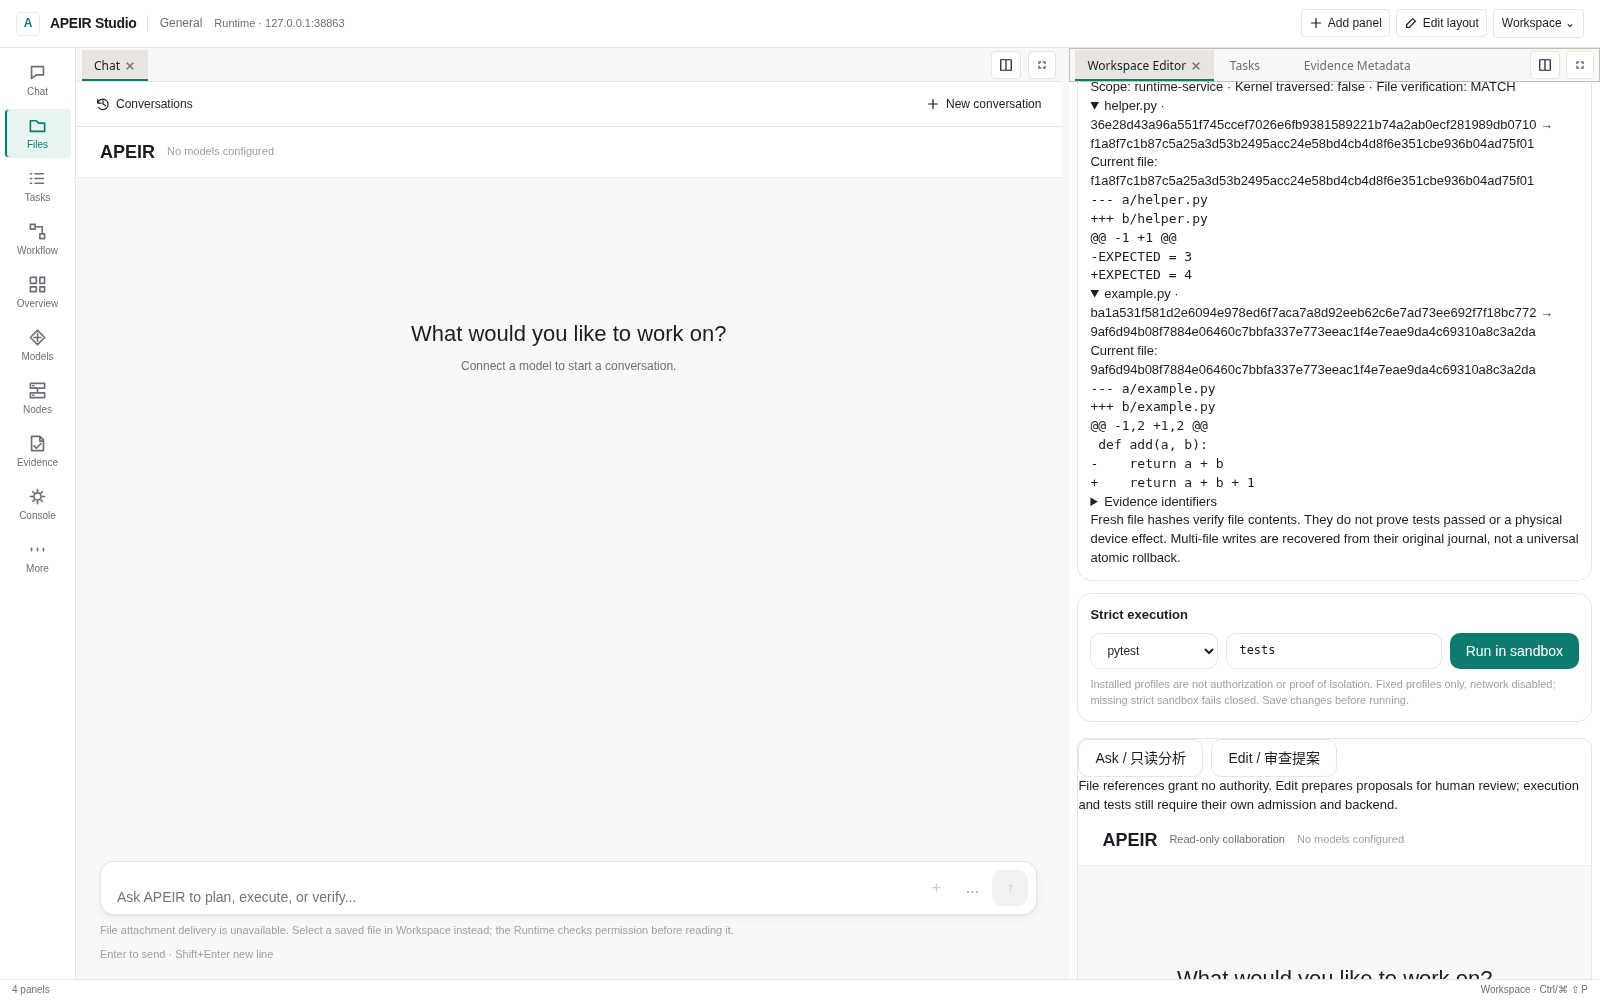
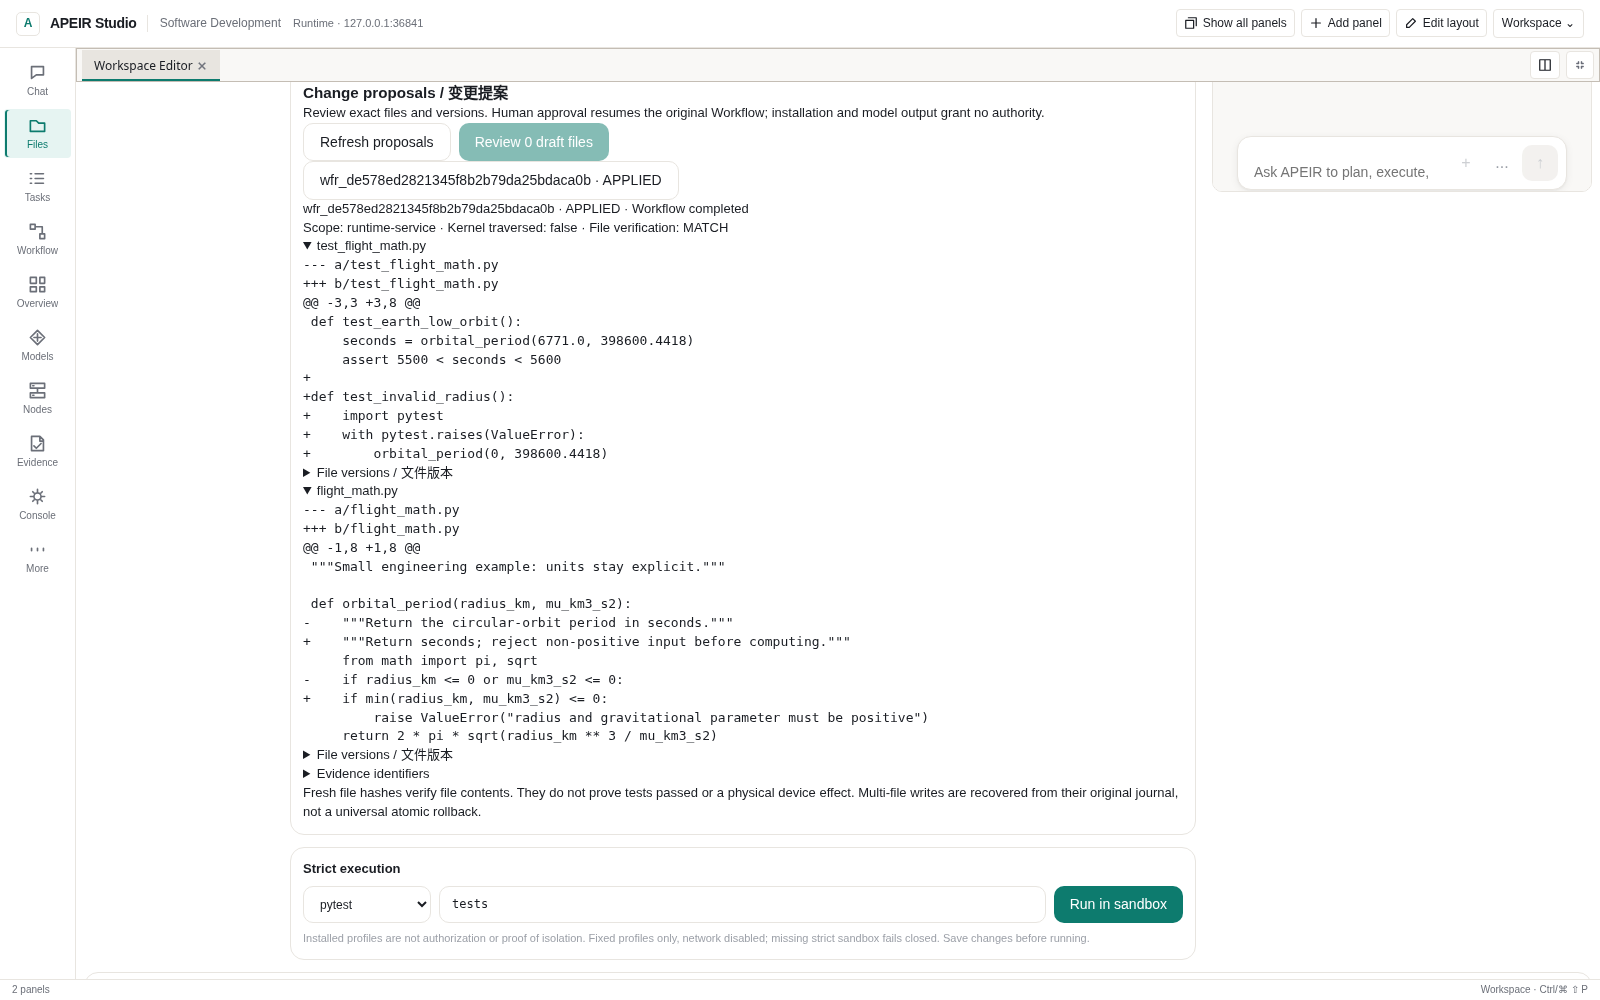
docs(delivery): clarify Windows downloads and refresh real Studio captures

diff --git a/docs/operations/getting-started/INSTALL_WINDOWS.md b/docs/operations/getting-started/INSTALL_WINDOWS.md
@@ -1,17 +1,117 @@
-# Windows source installation
+# APEIR on Windows
 
-For the unsigned x64 test package, use [Windows Development Build](QUICK_START.md#native-installation).
-It is separate from the source path below; Windows10 installed lifecycle remains
-pending and no stable installer is offered.
+The current **0.1.0-rc1 development bundle** contains both an installer and a
+Portable ZIP. Pick one; you do not need to install Python or Kernel separately.
 
-Follow the [source Quick Start](QUICK_START.md), including PowerShell virtual
-environment activation. Use Python 3.10–3.12 and a writable checkout;
-Administrator privileges are unnecessary for a source install.
+[**Download Setup + Portable**](https://github.com/untrod/apeir/actions/runs/41309010299/artifacts/13085683076)
+· [Version, hashes and source](QUICK_START.md#download-metadata)
 
-If `apeir` is not found, activate the same environment used by `python -m pip`.
-Native Tauri packaging requires Rust, MSVC/Windows SDK and locked native
-components. Windows ARM64 has a separate
-[qualification guide](../deployment/WINDOWS_10_ARM64_LOCAL.md); source installation
-does not qualify native binaries or isolation backends.
+This is an **unsigned development build**, not a stable Release. GitHub sign-in
+is required; the artifact expires on **2026-11-15**. Build and real sidecar checks
+passed on Windows Server 2025. Windows 10 installation, GUI, upgrade, uninstall
+and Defender acceptance are **PENDING**. There is no public Release asset yet.
 
-See [installation notes](../INSTALLATION.md) and [troubleshooting](TROUBLESHOOTING.md).
+中文速读：下载上面的工件，解压后任选安装版或 Portable。先校验，再打开；
+暂时没有 Windows 10 实机验收，不要把工作资料当测试沙盒。模型可以稍后配置。
+
+## Before opening a package
+
+- Use **x64 Windows**. Windows 10 x64 is the intended target; this candidate has
+  not completed acceptance on it. Windows ARM64 is a separate qualification.
+- The desktop needs **Microsoft Edge WebView2**. Setup uses its download
+  bootstrapper when necessary, so first installation can require network access.
+- Keep the included sidecars and app-local runtime DLLs together. Their presence
+  was checked in the build; clean Windows 10 dependency acceptance is still pending.
+- Start with a **new, empty workspace**. Back up existing workspace and application
+  state before testing an upgrade. Use an isolated copy for migration tests.
+
+Extract the outer GitHub artifact ZIP. Compare the Setup or Portable file's
+SHA-256 with [Download metadata](QUICK_START.md#download-metadata), not with the
+outer ZIP hash. In PowerShell, `Get-FileHash -Algorithm SHA256 <file>` prints it.
+A mismatch means **stop**. Do not run a similarly named file from another source.
+
+The bundle also contains `SHA256SUMS.txt`, manifests and native validation
+reports. Its binary source is `5bdbadf2a072c222b016b1ccbe8b89ad5e0c25ff`;
+a newer README or screenshot does not change that binary.
+
+## Setup
+
+1. After verification, open `APEIR_0.1.0-rc1_x64-setup.exe`.
+2. Setup is configured for the **current user**. Do not add administrator
+   elevation to work around a failure. Allow the supported WebView2 prerequisite
+   installation if it is needed and acceptable on your machine.
+3. Open APEIR and select a new workspace. Check the displayed Runtime and Kernel
+   status. A missing model is **UNCONFIGURED**, not a reason to lose read-only access.
+4. Open **Files**, **Workflow** or the supported model-free Demo. Add Provider
+   credentials later through the supported secure configuration flow.
+
+An unsigned application can receive Windows security warnings. If Windows blocks
+it, stop and retain the exact warning for review. Do not disable Defender,
+SmartScreen or other protection to make the test pass.
+
+## Portable
+
+1. Verify `APEIR-Portable-0.1.0-rc1-windows-x64.zip`.
+2. Extract the **whole ZIP** into a writable directory.
+3. Open `APEIR-Portable/APEIR.exe` from the extracted package. Do not move only
+   the EXE: Kernel, Worker and Runtime sidecars are part of the application.
+4. Follow the same workspace and service checks as Setup.
+
+“Portable” describes the application package. It does **not** mean all user data
+stays beside the EXE. The launcher uses `%LOCALAPPDATA%\Nous` for application
+configuration, logs and local service state, plus your selected workspace for
+project state. `Nous` is a retained compatibility directory name.
+
+## Download with GitHub CLI
+
+For developers who already use authenticated `gh`, this is the exact current
+artifact. It downloads files; it does **not** start installation:
+
+```powershell
+gh run download 41309010299 --repo untrod/apeir --name windows-x64-native-development-build --dir .\apeir-0.1.0-rc1
+if ($LASTEXITCODE -ne 0) { throw 'Download failed; no installer was run.' }
+$apeirFiles = @{
[2 lines of base64/hex data omitted]
+}
+foreach ($apeirName in $apeirFiles.Keys) {
+    $apeirPath = Join-Path '.\apeir-0.1.0-rc1' $apeirName
+    if (!(Test-Path -LiteralPath $apeirPath)) { throw "Missing package: $apeirName" }
+    $apeirHash = (Get-FileHash -LiteralPath $apeirPath -Algorithm SHA256).Hash
+    if ($apeirHash -ne $apeirFiles[$apeirName]) { throw "SHA-256 mismatch: $apeirName" }
+}
+Write-Host 'Package hashes match. No installer was run.'
+```
+
+Use a new destination directory. These fixed hashes refer only to the files
+above. The archive contents and hashes were independently checked on Linux;
+this PowerShell recipe still needs target-machine execution. Public, no-login
+Release downloads will be documented only after their actual publication.
+
+## Exit, recovery and troubleshooting
+
+Close the application normally, reopen it and inspect the original project and
+Work records. A lost response is a reason to query the original operation, not
+to submit its effects again. Closing a panel does not cancel background Work.
+
+Launcher logs normally live under `%LOCALAPPDATA%\Nous\logs`:
+`runtime-api.log` and `nousd.log`. If startup fails, record the application
+version, Windows version, warning text and relevant log excerpt. Remove tokens,
+credentials and personal paths before sharing diagnostics. Do not upload the
+whole state directory.
+
+Upgrade, uninstall, reinstall, retained-data behavior and child-process cleanup
+still need Windows 10 acceptance. Back up state first; do not assume uninstall
+removes your workspace, or manually delete it as a troubleshooting shortcut.
+The [launcher reference](../deployment/WINDOWS_10_X64_LAUNCHER.md) and
+[Release Runbook](../../acceptance/RELEASE_RUNBOOK.md) retain the engineering
+checks and the pending installation lifecycle.
+
+## Windows source installation
+
+Follow [Source Preview](QUICK_START.md#source-preview) or
+[Developer Setup](QUICK_START.md#developer-setup). Activate the same virtual
+environment used by `python -m pip`; no administrator privilege is needed.
+Native development additionally requires Rust, MSVC/Windows SDK and locked
+components. [Windows ARM64](../deployment/WINDOWS_10_ARM64_LOCAL.md) has a separate
+support scope. See [troubleshooting](TROUBLESHOOTING.md) for source startup issues.

diff --git a/docs/acceptance/ENGINEERING_REVIEW.md b/docs/acceptance/ENGINEERING_REVIEW.md
@@ -6049,3 +6049,48 @@ successful Windows x64 artifact and inspect its own report/hashes. Its full
 Native result is independently required before that package is admitted; source
 CI and the earlier AACB build cannot supply it. Later documentation-only changes
 preserve this exact binary/source identity rather than relabeling an older EXE.
+
+### Native download and first-use preparation — 2026-11-02
+
+Baseline main `0eeec61238721481d5603defd3ca75a0bc70ddbe`; Studio changes
+`1b09be440019981c1d6800b77f191cd3d3d1e7f8`. Kernel and the approved component
+lock are unchanged. Empty Chat opens the existing Models, Files and Workflow
+panels; navigation submits no Work and retains the unsent draft. Project path,
+capability details, recorded model input and file hashes remain available on
+expansion. Layout schema, drafts, approval and execution APIs are unchanged.
+
+Local verification: Desktop **501 passed**; actual CLI/HTTP/Chromium integration
+**17 passed**, including Controller isolation, untrusted layouts, original Run
+recovery and extension revocation. TypeScript, ESLint and production build passed.
+Repository regressions: **305 passed, 7 skipped**; optional native/environment
+conditions remain explicit. Existing security scan: zero HIGH findings and six
+existing MEDIUM findings; this is not a zero-finding security certification.
+
+Four raw 1600×1000 images in `docs/media` were replaced from that production
+Studio build and a real model-disabled Runtime in Linux sandboxed Chromium.
+The public-sized `orbit-demo` project has two actual Python files. Independent
+local CLI approval applied Proposal `wfr_de578ed2821345f8b2b79da25bdaca0b`, bound
+to Work `work_965b9631e40f3c356575e77cea4148a3`; fresh readback was MATCH and
+Runtime restart recovered the original Proposal. Pure three-step TRANSFORM Run
+`wfr_5b6add51332d4384a63e6e10b49774c2` completed with upstream value bindings.
+No external model calls or project test commands ran. File MATCH is not test
+PASS. Screenshots show source mode, not Windows installation or physical effects.
+
+The existing native candidate remains binary source
+`5bdbadf2a072c222b016b1ccbe8b89ad5e0c25ff`, run41309010299/artifact13085683076.
+Fresh artifact retrieval through the connected GitHub interface matched outer
[1 lines of base64/hex data omitted]
+The existing independent package inspector verified all 22 checksum entries,
+13 manifest records, nested Portable files, approved PE components and actual
+NSIS payload. The upstream Tauri NSIS header stamp comparison does not change
+any retained binary or raw digest. Setup was not executed. A direct `gh run
+download` attempt reached the artifact redirect but this environment denied its
+blob URL with HTTP403; the documented PowerShell recipe is not a Windows10 test.
+
+The maintainer has no Windows10 test host currently available and requested
+completion of independent delivery preparation. Installation, upgrade, uninstall,
+GUI/Defender and data-retention acceptance remain PENDING. Public Release assets,
+signing and publication authorization remain BLOCKED; no tag or Release was
+created. Download instructions point to the actual authenticated, expiring
+Actions bundle, not invented public Setup/Portable URLs. The Windows candidate
+does not acquire these newer source-interface changes by documentation alone.

diff --git a/docs/operations/guides/USER_GUIDE.md b/docs/operations/guides/USER_GUIDE.md
@@ -32,7 +32,9 @@ npm ci
 npm run dev
 ```
 
-Current Studio opens with Chat and Files in a new General layout. Existing saved
+Current Studio opens with Chat and Files in a new General layout. Empty Chat
+offers **Connect a model**, **Open project files** and **Open Workflow**; these
+open existing panels without submitting a task. Existing saved
 layouts are kept. If you see only a Dashboard, choose **Chat** or **Files** on
 the left rail; **More / Add panel** opens the full searchable library.
 **Workspace → Operations Console → Controller connection** configures the Runtime
@@ -164,19 +166,24 @@ loaded Skill does not establish that a model used it in a particular request.
 
 ![Dark Dashboard with actual Runtime data; absent resources remain UNKNOWN](../../media/studio-source-overview.png)
 
-These screenshots are real [source-browser evidence](https://github.com/untrod/apeir/actions/runs/41308994710)
-at `5bdbadf`, using the production frontend and model-disabled Runtime. They do
-not qualify installed Windows, live-model inference or physical devices.
+Project, Overview and Proposal images were captured on 2026-11-02 from the
+[reviewed Studio source](https://github.com/untrod/apeir/commit/1b09be440019981c1d6800b77f191cd3d3d1e7f8):
+a production build in Linux Chromium connected to a real model-disabled Runtime.
+They show actual files and records, not installed Windows or live-model inference.
+The downloadable Windows candidate retains its separate binary source identity.
 Browser Studio initializes the original EntityStore after authenticated health;
 Work and original task summaries share the existing adapter. Missing progress or
 unknown task states do not become successful tasks or enable controls.
 
 ## Reviewing workspace changes
 
-Open a real project in **Files / Operations → Workspace**. Read the relevant
+Open a real project in **Files / Operations → Workspace**. The Project header
+shows its directory name; expand **Project details** for the full path and
+capability availability. **Inspect model input** opens recorded input details. Read the relevant
 files, edit drafts and choose **Review draft files**. The existing Proposal
 Workflow records paths, original/replacement SHA-256, exact Diff and CAS refs.
-Review them, obtain independent **Approve Once**, then resume the original
+Expand **File versions** to inspect original, replacement and current hashes.
+Review the Diff, obtain independent **Approve Once**, then resume the original
 request. **Deny** changes no files. File versions and current permissions are
 checked again before writing; changed files are not silently overwritten.
 

diff --git a/README.zh-CN.md b/README.zh-CN.md
@@ -14,15 +14,19 @@
 
 开放、以本地工作为起点的工程工作台：组织文件、工作流和连接资源，修改先审查，操作有审批，结果有记录。
 
-[**Windows 预览包**](https://github.com/untrod/apeir/actions/runs/41309010299/artifacts/13085683076) ·
+[**⬇ Windows 安装版 + Portable**](https://github.com/untrod/apeir/actions/runs/41309010299/artifacts/13085683076) ·
 [**Source Preview**](docs/operations/getting-started/QUICK_START.md#source-preview) ·
 [**快速开始**](docs/operations/getting-started/QUICK_START.md) ·
 [**文档**](docs/README.md) · [English](README.md)
 
+**Windows：**[安装版](docs/operations/getting-started/INSTALL_WINDOWS.md#setup) · [Portable 用法](docs/operations/getting-started/INSTALL_WINDOWS.md#portable) · [SHA-256 校验](docs/operations/getting-started/QUICK_START.md#download-metadata)。
+当前为未签名开发包，需要登录 GitHub 下载，Windows 10 安装仍待实机验收。
+正式版还没出炉，生产环境先别急着端上桌。
+
 ![APEIR Studio 中的工程文件、编辑器与 Chat](docs/media/studio-workspace-source.png)
 
-*当前 Studio 源码预览界面的真实浏览器截图，连接的是已禁用模型的 Runtime；
-不是 Windows 安装截图，也没有展示真实模型调用。*
+*Studio 源码界面的真实截图（Linux 浏览器，模型已禁用）。
+下载的 Windows 包有独立构建版本；此图不代表 Windows 安装或真实模型验收。*
 
 APEIR Studio 可以组合工程、对话、Workflow、任务和证据面板，保存自己的工作布局。
 APEIR Runtime 负责已获准的操作与原始记录。模型和扩展提供能力，不负责批准自己的请求。

diff --git a/README.md b/README.md
@@ -16,15 +16,20 @@
 An open, local-first workspace for project files, workflows and connected
 resources—with approvals and execution records you can inspect.
 
-[**Windows Preview**](https://github.com/untrod/apeir/actions/runs/41309010299/artifacts/13085683076) ·
+[**⬇ Windows — Setup + Portable**](https://github.com/untrod/apeir/actions/runs/41309010299/artifacts/13085683076) ·
 [**Source Preview**](docs/operations/getting-started/QUICK_START.md#source-preview) ·
 [**Quick Start**](docs/operations/getting-started/QUICK_START.md) ·
 [**Documentation**](docs/README.md) · [简体中文](README.zh-CN.md)
 
+**Windows:** [Install Setup](docs/operations/getting-started/INSTALL_WINDOWS.md#setup) · [Use Portable](docs/operations/getting-started/INSTALL_WINDOWS.md#portable) · [Verify SHA-256](docs/operations/getting-started/QUICK_START.md#download-metadata).
+Unsigned development bundle; GitHub sign-in required. Windows 10 installation
+acceptance is pending. No stable Release yet—keep your production hat on the hook.
+
 ![APEIR Studio showing project files, an editor and Chat](docs/media/studio-workspace-source.png)
 
-*Actual Studio Source Preview connected to a model-disabled Runtime. This is a
-browser capture, not a Windows installation or live-model demonstration.*
+*Actual Studio source build in Linux Chromium, with models disabled. The
+Windows download has its own build identity; this image is not native-install
+or live-model acceptance.*
 
 APEIR Studio puts project, conversation, Workflow, task and evidence panels in
 one configurable workspace. APEIR Runtime handles admitted operations and their

diff --git a/docs/operations/guides/WORKFLOW_GUIDE.md b/docs/operations/guides/WORKFLOW_GUIDE.md
@@ -109,3 +109,10 @@ apeir --no-intelligence workflow validate workflow.json --json
 
 ![Workflow Builder with a registered pure workflow and its original Run](../../media/studio-workflow-source.png)
 
+
+The image above shows a real three-step TRANSFORM workflow at
+[Studio source `1b09be4`](https://github.com/untrod/apeir/commit/1b09be440019981c1d6800b77f191cd3d3d1e7f8),
+captured in Linux Chromium on 2026-11-02. The steps transfer recorded review
+notes; they do not perform model analysis or run project tests. Registration and
+execution each received an independent local approval. This is source-browser
+acceptance, not Windows installation acceptance.

diff --git a/docs/operations/getting-started/QUICK_START.md b/docs/operations/getting-started/QUICK_START.md
@@ -305,6 +305,10 @@ private paths. Vulnerabilities follow [SECURITY](../../../SECURITY.md).
 
 ## Native Installation
 
+For Setup, Portable, hash checks and first-launch steps, use
+[APEIR on Windows](INSTALL_WINDOWS.md). Both packages are in the same download;
+GitHub sign-in is currently required.
+
 Use the **unsigned Windows x64 test package** from the reviewed main build below.
 Windows 10 GUI, installation, upgrade, uninstall, Defender and signing remain
 unqualified. A successful build or Sidecar Smoke does not complete those Gates.
